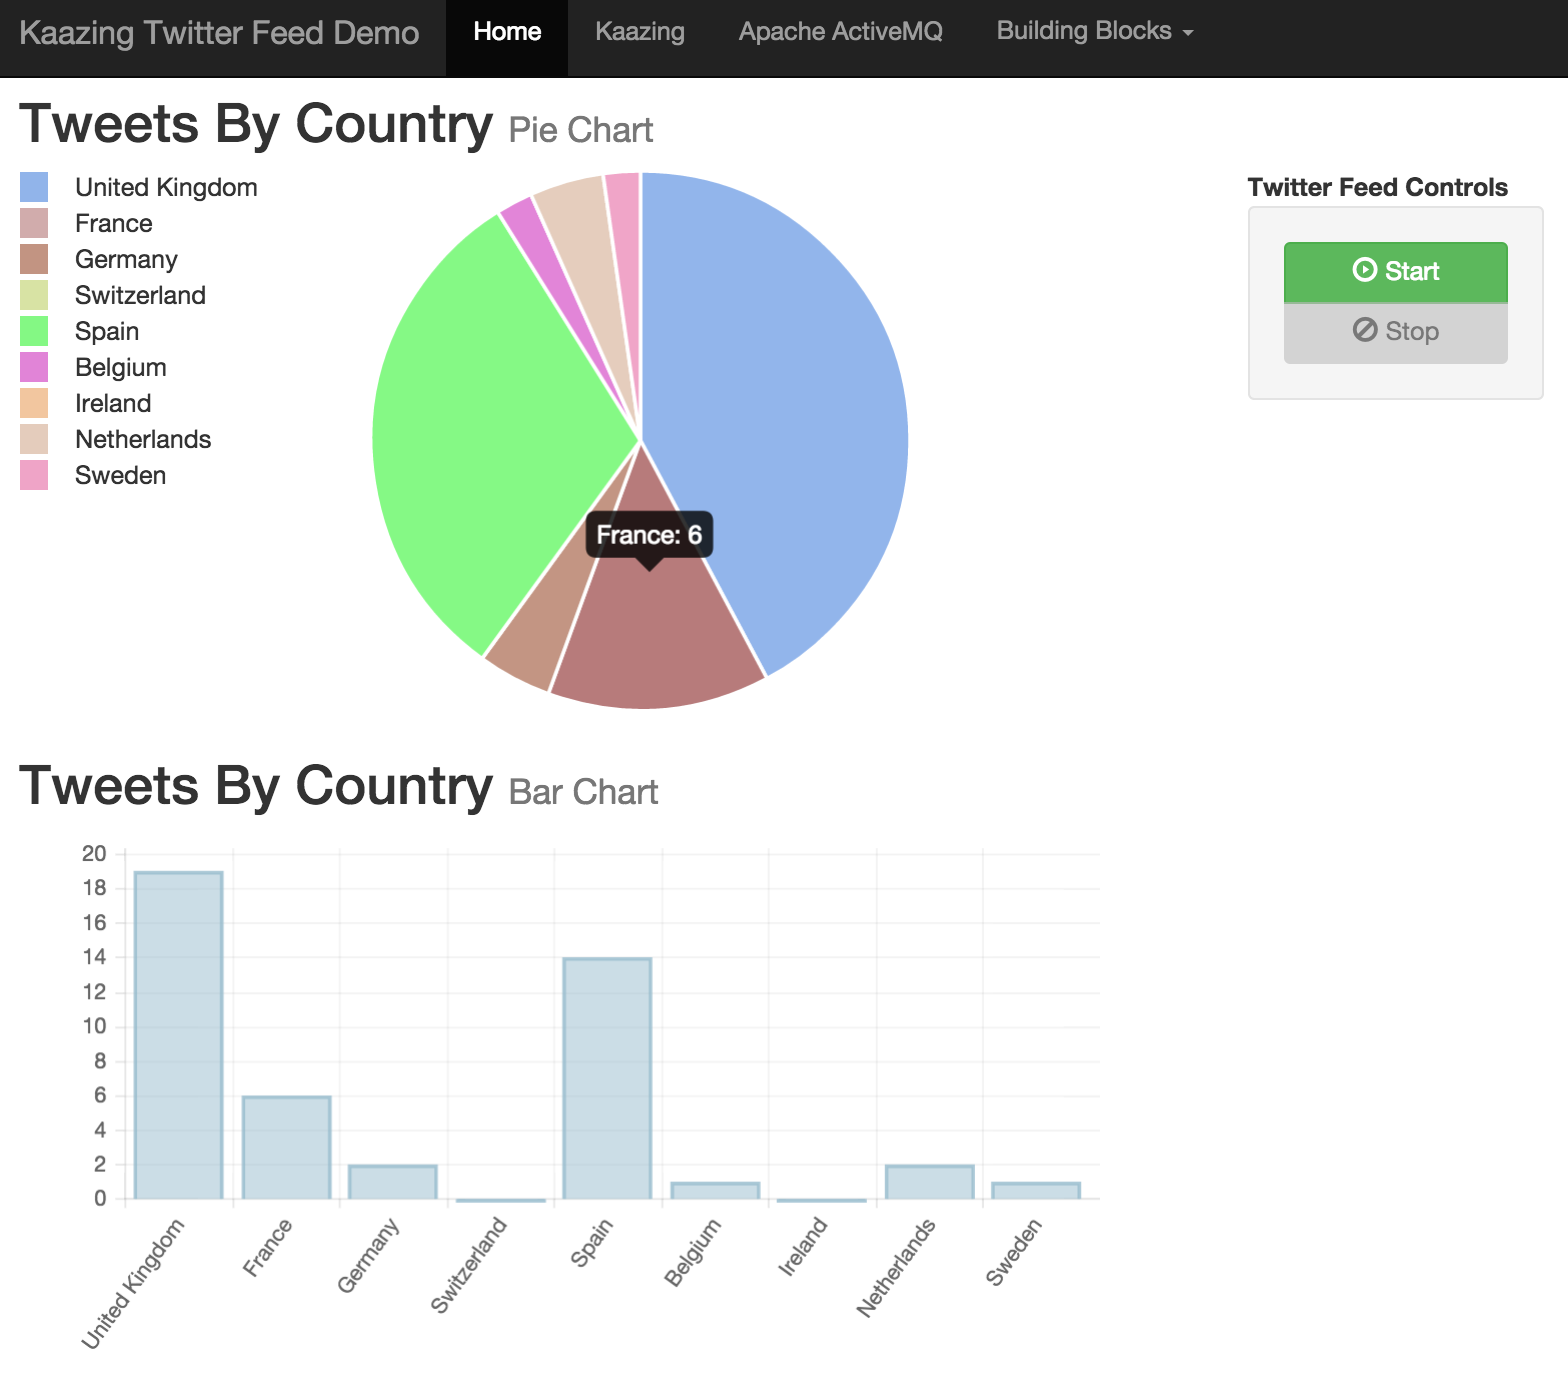
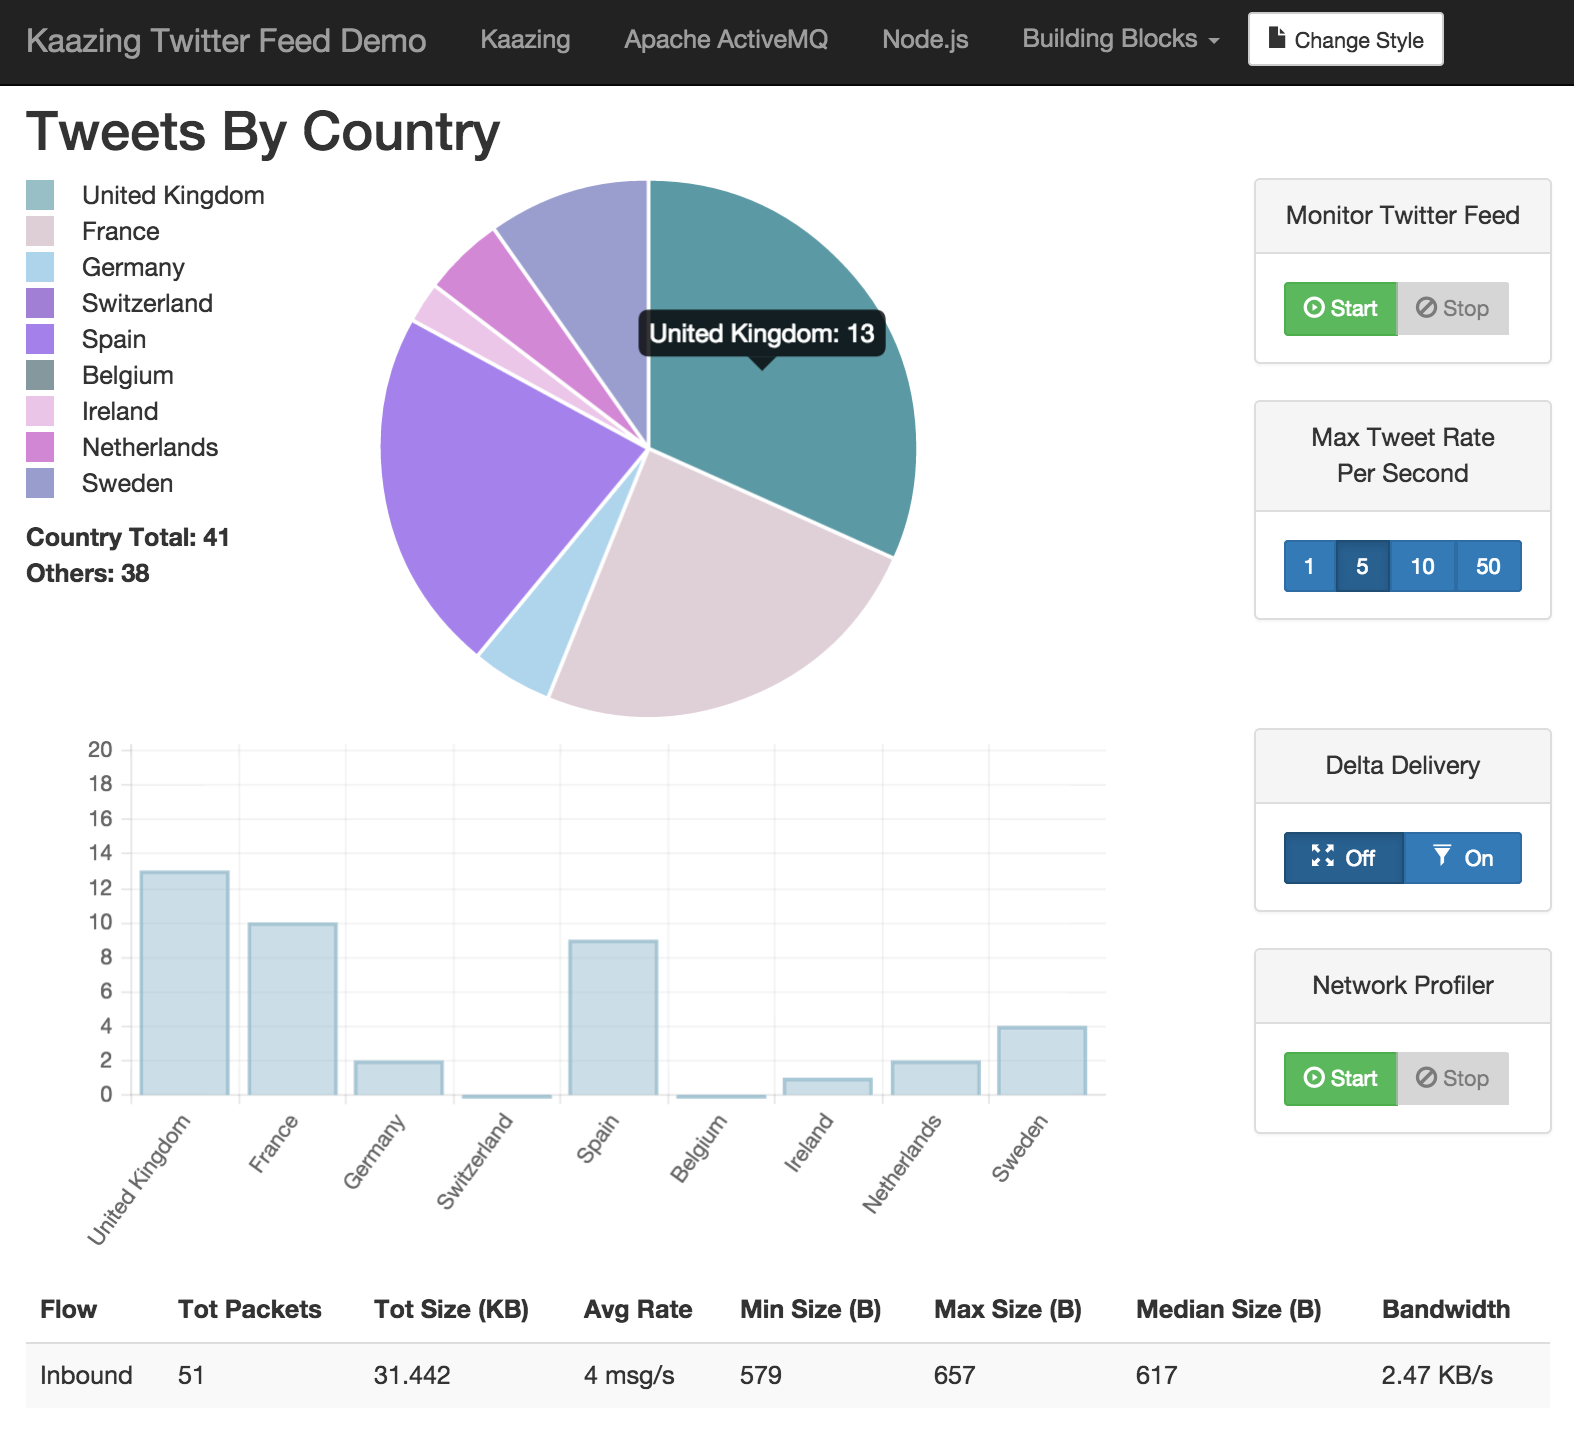
Update readme and dashboard screenshot

diff --git a/index.html b/index.html
@@ -59,8 +59,8 @@
       <div class="row">
         <div class="col-md-2">
           <div id="countryTweetsPieChartLegend"></div>
-          <div><strong>Country Tweets: <span id="spanTweetTotalCountry">0</span></strong></div>
-          <div><strong>Other Tweets: <span id="spanTweetTotalOther">0</span></strong></div>
+          <div><strong>Country Total: <span id="spanTweetTotalCountry">0</span></strong></div>
+          <div><strong>Others: <span id="spanTweetTotalOther">0</span></strong></div>
         </div>
         <div class="col-md-3">
           <canvas id="countryTweetsPieChart" width="300" height="300"></canvas>

diff --git a/README.md b/README.md
@@ -28,8 +28,27 @@ NB. Configuration may be required.
 
 ### Run KAAZING Gateway JMS Edition v4.0.6
 
-NB. Configuration may be required. It is assumed that the gateway will be exposing an unprotected, CORS accessible JMS service on "ws://your-domain-name-here.com:8001/jms".
+NB. Configuration may be required.
 
+It is assumed that the gateway will be exposing an unprotected, CORS accessible JMS service on "ws://your-domain-name-here.com:8001/jms". In order for the delta delivery functionality to work as expected it will also require the following JMS service properties configured...
+
+```xml
+<topic>
+  <name>twitter_stream</name>
+  <message.delivery.strategy>full</message.delivery.strategy>
+  <message.header.expiration>include</message.header.expiration>
+  <message.header.messageID>include</message.header.messageID>
+  <message.header.timestamp>include</message.header.timestamp>
+</topic>
+
+<topic>
+  <name>twitter_stream_delta</name>
+  <message.delivery.strategy>delta</message.delivery.strategy>
+  <message.header.expiration>exclude</message.header.expiration>
+  <message.header.messageID>exclude</message.header.messageID>
+  <message.header.timestamp>exclude</message.header.timestamp>
+</topic>
+```
 
 ###Configure the Node.js server
 
@@ -77,7 +96,7 @@ Browse to http://localhost:8080/index.html
 
 ### Use the UI
 
-The client should automatically connect to KAAZING Gateway and provide visual confirmation that this has been successful. The Twitter Feed Control will also be enabled once connected. Click Start to begin monitoring the live Twitter stream.
+The client should automatically connect to KAAZING Gateway and provide visual confirmation that this has been successful. The various controls will also be enabled once connected. Click Start to begin monitoring the live Twitter stream.
 
 ## Client Preview
 
